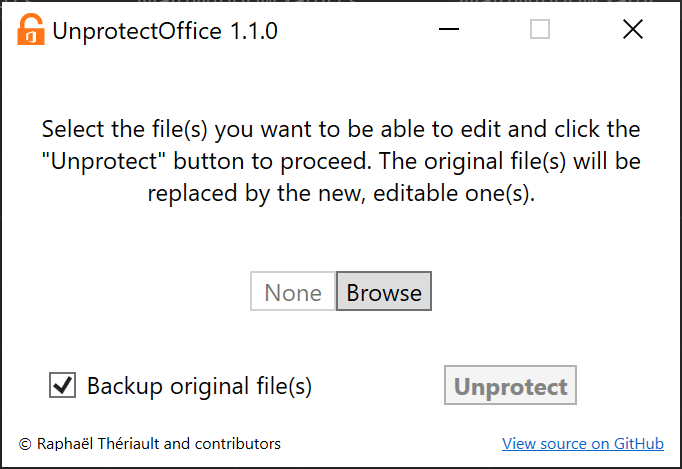
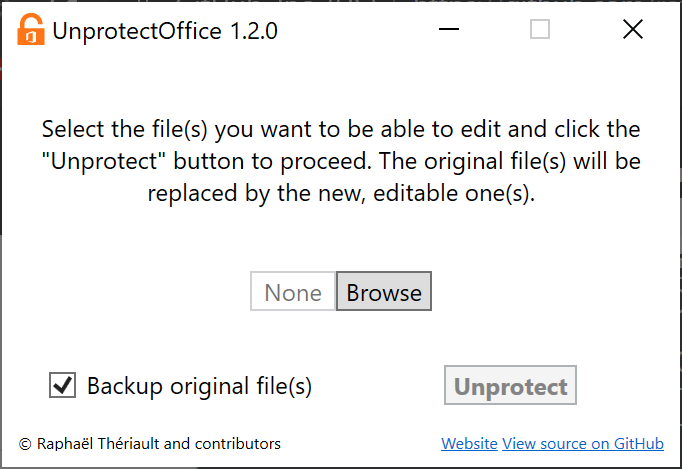
Updated website for 1.2.0

diff --git a/docs/index.html b/docs/index.html
@@ -19,7 +19,7 @@
     <div class="container">
         <h1 class="display-1">
             U<span class="d-none d-md-inline">nprotect</span>O<span class="d-none d-md-inline">ffice</span>
-            <small class="font-weight-light">1.1.0</small>
+            <small class="font-weight-light">1.2.0</small>
         </h1>
         <p class="lead ml-3">Easily remove write protection from Microsoft Office files</p>
     </div>
@@ -29,7 +29,7 @@
         <div class="row">
             <div class="col-md">
                 <a class="btn btn-warning btn-lg"
-                   href="https://github.com/raftario/unprotect-office/releases/download/v1.1.0/UnprotectOffice.exe">
+                   href="https://github.com/raftario/unprotect-office/releases/download/v1.2.0/UnprotectOffice.exe">
                     Download
                 </a>
             </div>
